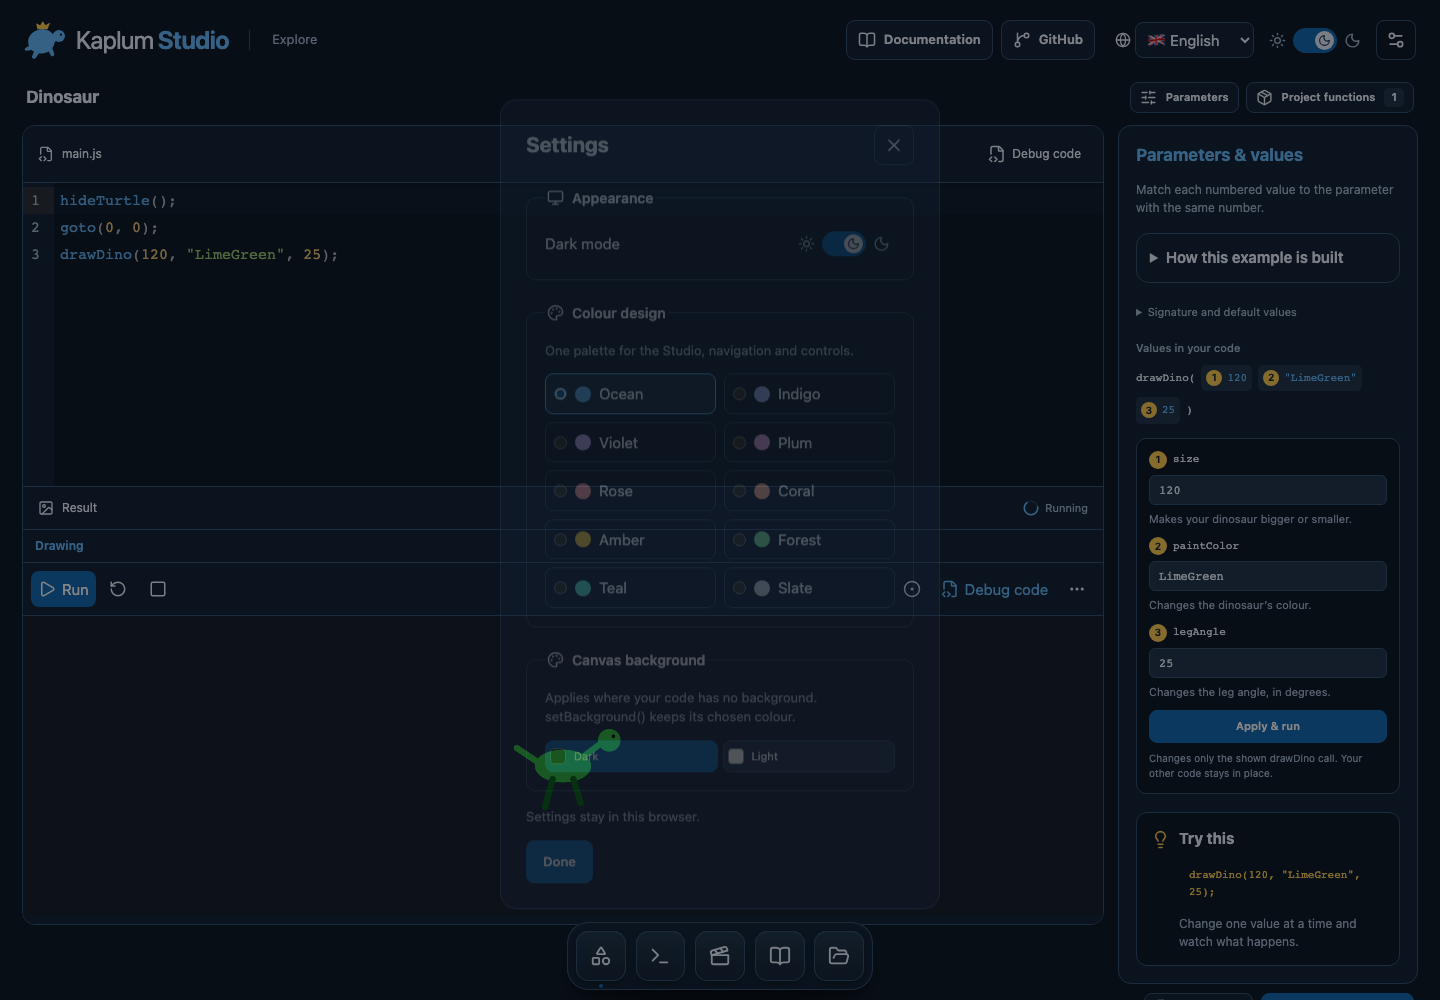
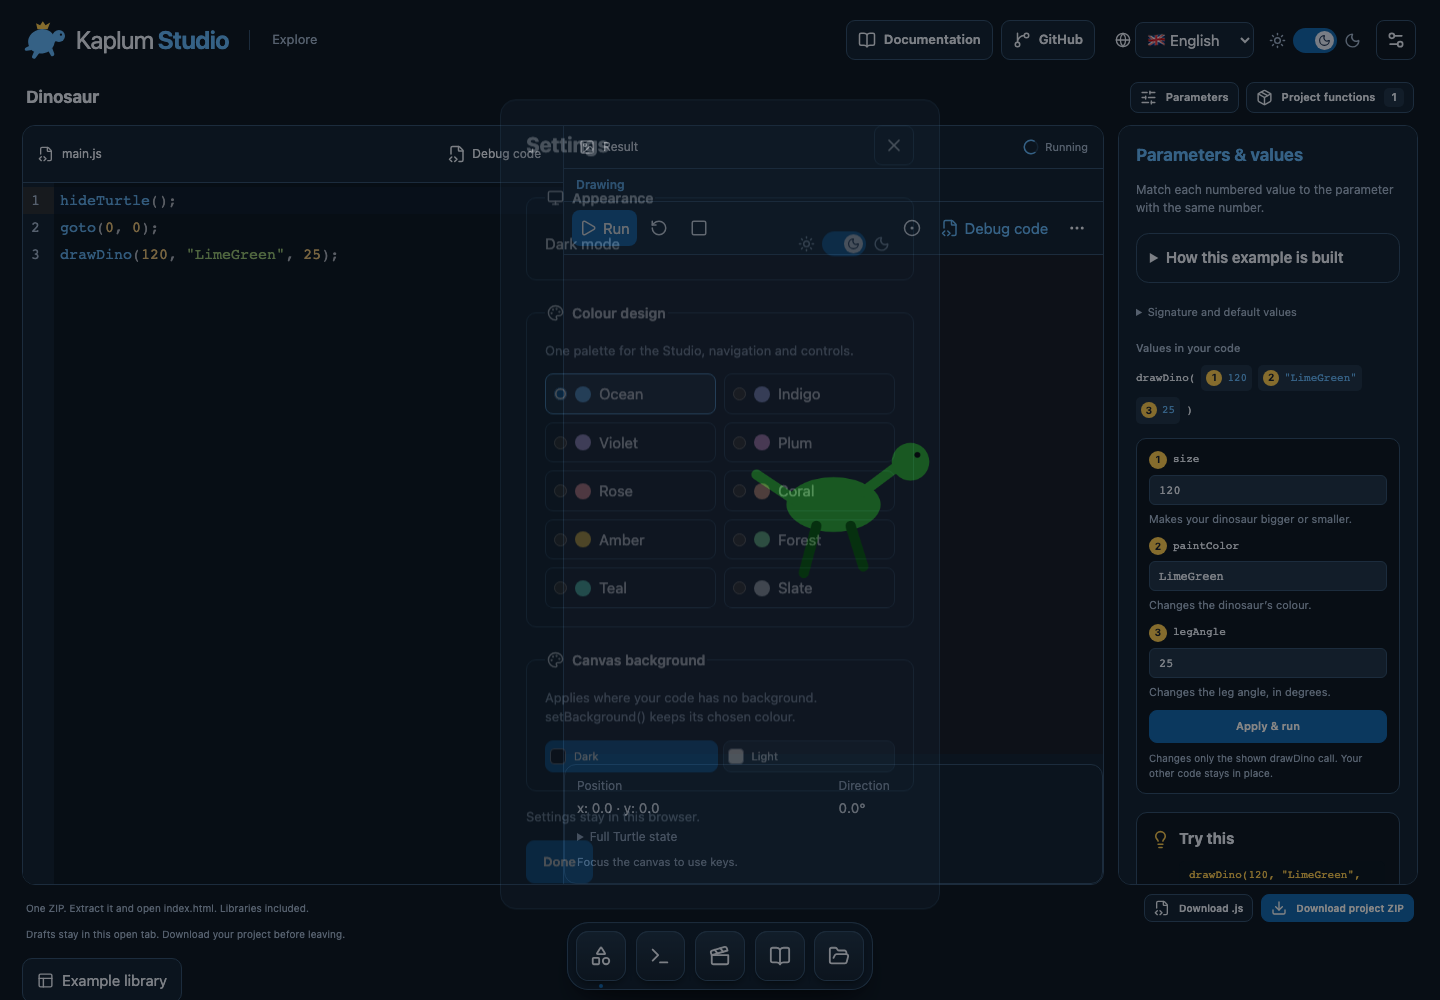
Show source and canvas side by side during normal editing

diff --git a/app/atlas.css b/app/atlas.css
@@ -1182,17 +1182,32 @@ header .release-links a {
 @media (min-width: 701px) {
   .workspace-panels:not([data-debug="true"]) {
     flex: 0 0 auto;
-    min-height: 800px;
+    min-height: 560px;
   }
   .workspace-panels:not([data-debug="true"]) .workbench {
-    height: 800px;
-    min-height: 800px;
+    display: grid;
+    grid-template-columns: minmax(0, 1fr) minmax(0, 1fr);
+    height: clamp(560px, calc(100dvh - 240px), 760px);
+    min-height: 560px;
   }
   .workspace-panels:not([data-debug="true"]) .code-pane {
-    flex: 0 0 360px;
+    height: 100%;
+    min-height: 0;
+  }
+  .workspace-panels:not([data-debug="true"]) .result-pane {
+    height: 100%;
+    min-height: 0;
+    border-top: 0;
+    border-left: 1px solid var(--line);
+    overflow: auto;
   }
   .workspace-panels:not([data-debug="true"]) .canvas-surface {
     min-height: 300px;
+    flex-shrink: 0;
+  }
+  .workspace-panels:not([data-debug="true"]) .explanation-pane {
+    max-height: clamp(560px, calc(100dvh - 240px), 760px);
+    overflow: auto;
   }
 }
 @media (min-width: 901px) {

diff --git a/tests/workspace-layout.spec.js b/tests/workspace-layout.spec.js
@@ -13,6 +13,9 @@ for (const width of [390, 850, 1073, 1536]) {
         const editor = await page.locator('.editor-host').boundingBox();
         expect(editor.height).toBeGreaterThanOrEqual(200);
         const result = await page.locator('.result-pane').boundingBox();
+        const code = await page.locator('.code-pane').boundingBox();
+        expect(code.x + code.width).toBeLessThanOrEqual(result.x + 1);
+        expect(Math.abs(code.y - result.y)).toBeLessThan(2);
         const workbench = await page.locator('.workbench').boundingBox();
         expect(result.y + result.height).toBeLessThanOrEqual(workbench.y + workbench.height + 1);
       }

diff --git a/tests/studio.spec.js b/tests/studio.spec.js
@@ -440,7 +440,8 @@ test("Atlas gives the workspace full width with an optional library below", asyn
   const inspector = await page.locator("#parameter-inspector").boundingBox();
   const dock = await page.locator(".studio-dock").boundingBox();
   expect(code.x).toBeLessThan(50);
-  expect(code.y + code.height).toBeLessThanOrEqual(result.y + 1);
+  expect(code.x + code.width).toBeLessThanOrEqual(result.x + 1);
+  expect(Math.abs(code.y - result.y)).toBeLessThan(2);
   expect(result.x + result.width).toBeLessThan(inspector.x);
   expect(result.y + result.height).toBeLessThanOrEqual(1024);
   expect(dock.width).toBeLessThan(400);

diff --git a/docs/source-debugger.md b/docs/source-debugger.md
@@ -49,4 +49,4 @@ The workspace uses the full available width. Example library is a collapsed sect
 
 ## Workspace sizing
 
-Normal desktop editing reserves enough height for both source and drawing rather than shrinking them to fit exports or teaching text into one viewport. The workspace scrolls to reach additional controls. Parameter visibility works from 901px upward; mobile keeps the existing Code/Result/Explanation tabs. Dock clearance is reserved once at the end of the content, not as a large gap after the export controls.
+Normal desktop editing places source and drawing side by side and reserves enough height for both rather than shrinking them to fit exports or teaching text into one viewport. The workspace scrolls to reach additional controls. Parameter visibility works from 901px upward; mobile keeps the existing Code/Result/Explanation tabs. Dock clearance is reserved once at the end of the content, not as a large gap after the export controls.
